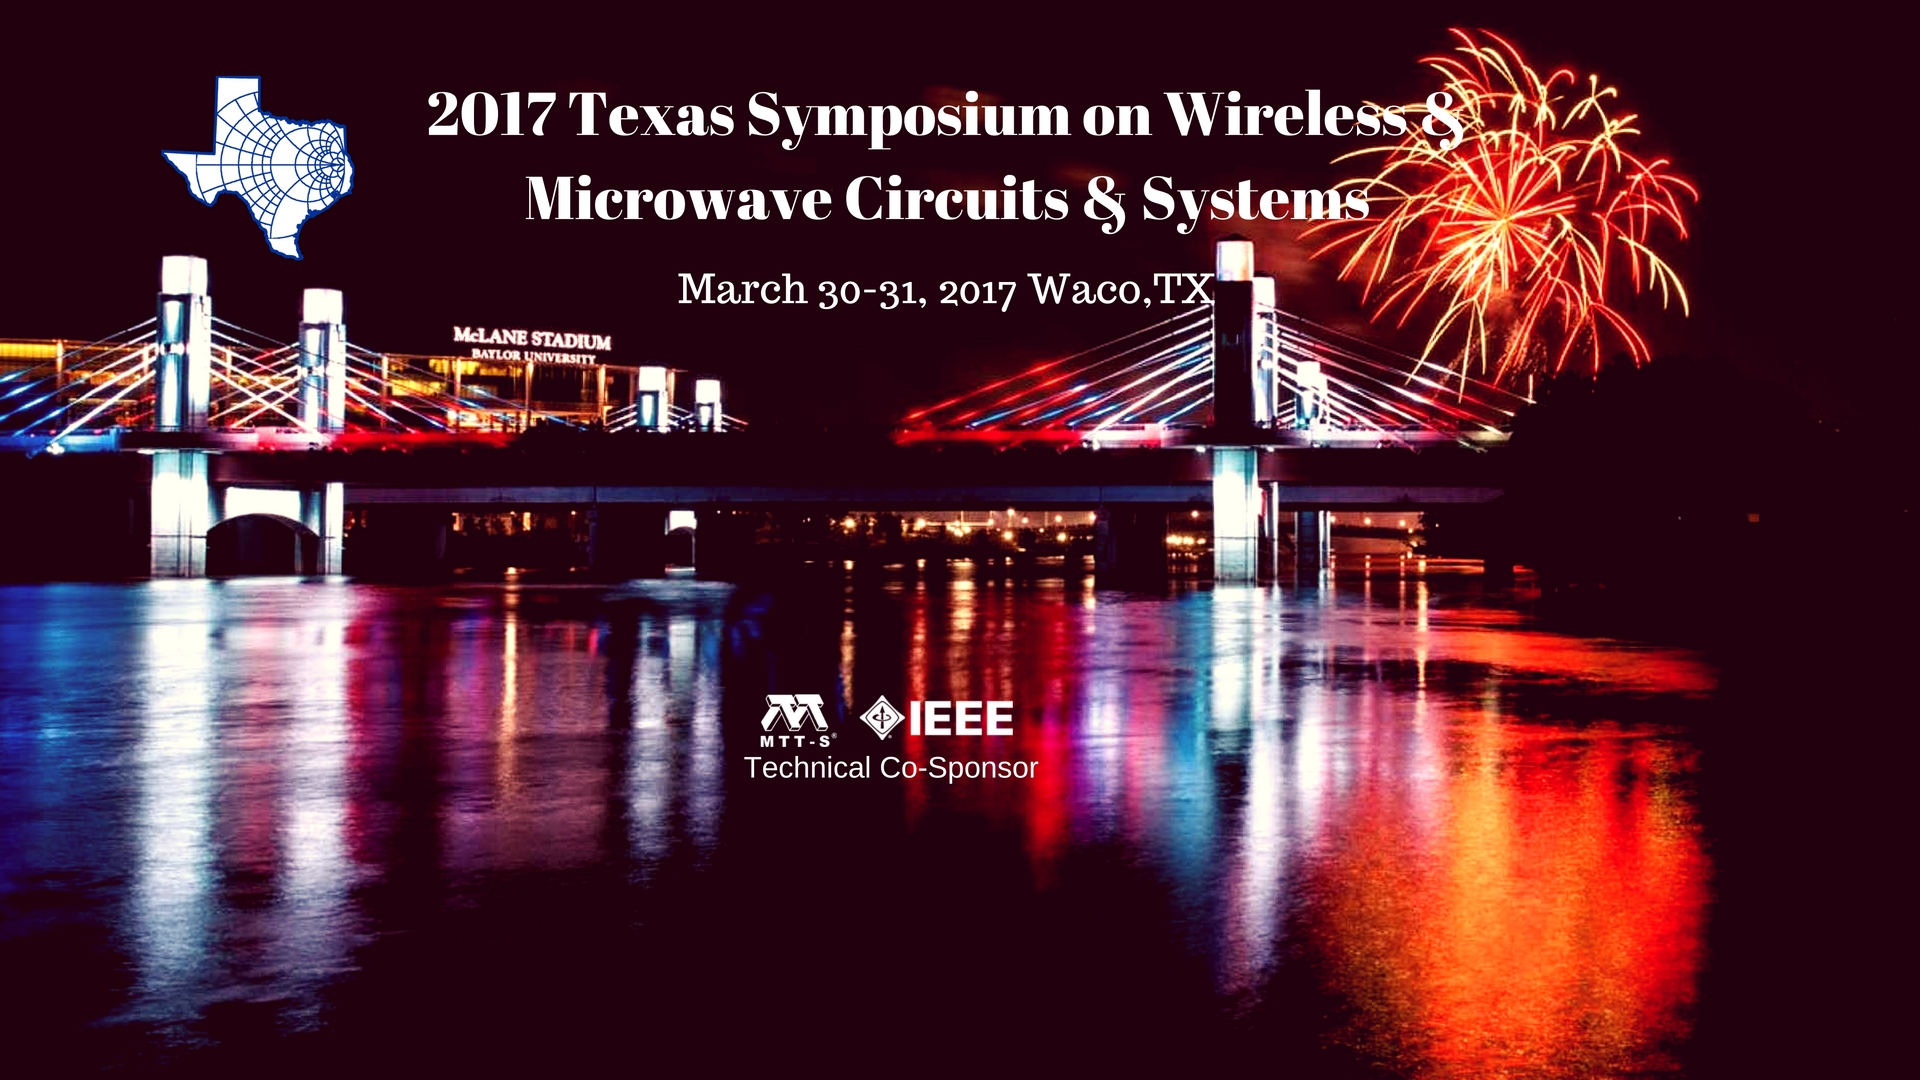
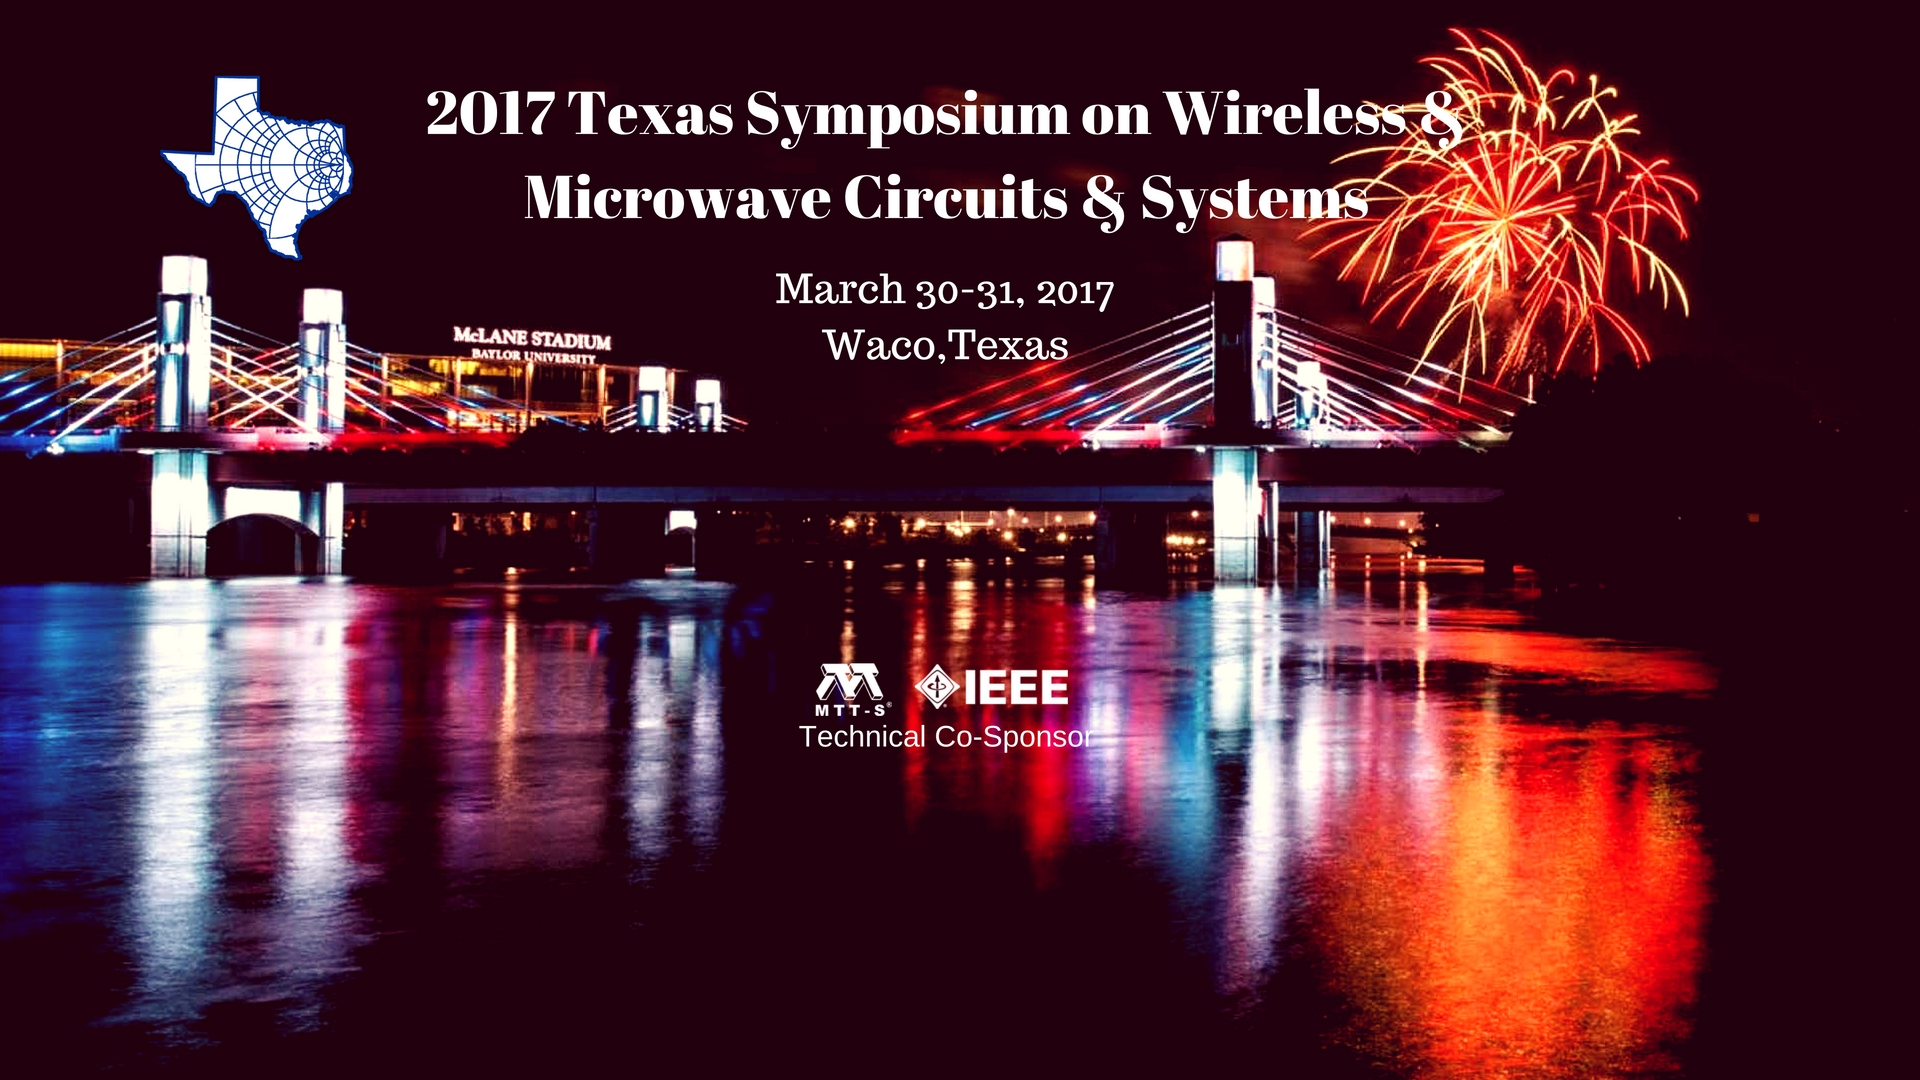
home page changes
More changes to home page and the banner, added new content to the page

diff --git a/index.html b/index.html
@@ -42,7 +42,7 @@
 								<li><a href="left-sidebar.html">Author Toolkit</a></li>
 								<li><a href="right-sidebar.html">Registration</a></li>
 								<li><a href="two-sidebar.html">Travel &amp; Stay</a></li>
-								<li><a href="no-sidebar.html">Sponsors</a></li>
+								<li><a href="Sponsors.html">Sponsors</a></li>
 								<li><a href="no-sidebar.html">Contact Us</a></li>
 							</ul>
 						</nav>
@@ -52,26 +52,31 @@
 			<!-- Banner -->
 				<section id=conf-section >
 					<div class="conf-content">
-						<p>The steering committee invites paper submissions for the 2017 conference, to be held on the beautiful campus of Baylor University in Waco, Texas. Papers will be archived and published in the conference proceedings and at IEEE Xplore.  Paper submissions in all areas of wireless and microwave circuits and systems are welcome. Topics of interest include, but are not limited to, the following:</p>
-
+						<p></p>
+						<p>The Texas Symposium on Wireless and Microwave Circuits and Systems conference committee invites paper submissions for the 2017 conference, to be held on the beautiful campus of Baylor University in Waco, Texas, on March 30-31, 2017. <br/>
+						Authors from the industry and academia are invited to submit four-page papers of their original and previously unpublished work.  Paper submissions in all areas of wireless and microwave circuits and systems are welcome.  Topics of interest include:</p>
 							<ul>
-								<li>• RF and microwave circuits, devices, modeling, testing, and measurement </li>
-								<li>• Radar and sensing </li>
-								<li>• Antennas, propagation, and electromagnetics </li>
-								<li>• Microwave applied metrology</li>
-								<li>• Wireless power transfer</li>
-								<li>• Electromagnetic materials and modeling</li>
-								<li>• Wireless or optical communication</li>
-								<li>• Wireless technologies for biomedical applications</li>
-								<li>• Internet of Things</li>
-								<li>• Emerging wireless technologies</li>
+								<li>• &nbsp;	RF and microwave circuits and systems  </li>
+								<li>• &nbsp;	Devices, modeling, testing and measurement techniques </li>
+								<li>• &nbsp;	5G and millimeter-wave wireless technologies</li>
+								<li>• &nbsp;	Spectrum management and coexistence </li>
+								<li>• &nbsp;	Radar and sensing</li>
+								<li>• &nbsp;	Antennas, propagation, and electromagnetics</li>
+								<li>• &nbsp;	Microwave applied metrology</li>
+								<li>• &nbsp;	Wireless power transfer</li>
+								<li>• &nbsp;	Electromagnetic materials and modeling</li>
+								<li>• &nbsp;	Wireless or optical communications </li>
+								<li>• &nbsp;	Photonics</li>
+								<li>• &nbsp;	Wireless technologies for biomedical applications</li>
+								<li>• &nbsp;	Internet of Things</li>
+								<li>• &nbsp;	Emerging wireless technologies</li>
 							</ul>
-
+							<p>Published papers will be archived will the IEEE Xplore®, and a student-best-paper-award will be awarded to offset registration and travel costs.</p>
 					</div>
 				</section>
 					<section  id="banner" >
 					<header>
-						<h2>Conference Program: <em>Agenda and Technical Program</em></h2>
+						<h2>Conference Program:&nbsp; <em>Agenda and Technical Program</em></h2>
 						<a href="http://texassymposium.org/files/TexasSymposiumAgenda_2016.pdf" class="button">Learn More</a>
 					</header>
 				</section>
@@ -82,25 +87,25 @@
 						<div class="row 200%">
 							<section class="4u 12u(narrower)">
 								<div class="box highlight">
-									<i class="icon major"></i>
+									<i class="icon major round-cal-img"></i>
 									<h3>Important Dates</h3>
-										<p><b>February 13, 2016</b>  <br/>Full Paper Submission Deadline</p>
-										<p><b>February 26, 2016</b> <br/>Author Notifications</p>
-										<p><b>March 6, 2016</b> <br/>Final Paper Submission</p>
+										<p><b>January 31, 2017</b>  <br/>Full Paper Submission Deadline</p>
+										<p><b>February 26, 2017</b> <br/>Author Notifications</p>
+										<p><b>March 10, 2017</b> <br/>Final Paper Submission</p>
 								</div>
 							</section>
 							<section class="4u 12u(narrower)">
 								<div class="box highlight">
-									<i class="icon major"></i>
+									<i class="icon major round-paper-call-img"></i>
 									<h3>CALL FOR SPONSORS</h3>
-									<p>Sponsorship of specific events within the conference (meals, reception, etc.) as well as the entire conference are available. Companies and individuals interested in participating as a sponsor should contact Benjamin Eynon, Sponsorship Chair, at b.eynon@samsung.com</p>
+									<p>Companies and individuals interested in sponsoring specific aspects of the conference should contact Charles Baylis at Charles_Baylis@baylor.edu</p>
 								</div>
 							</section>
 							<section class="4u 12u(narrower)">
 								<div class="box highlight">
-									<i class="icon major"></i>
+									<i class="icon major round-submit-img"></i>
 									<h3>Paper Submission</h3>
-									<p>Abstracts and papers should be submitted online at http://TexasSymposium.org</p>
+									<p>Conference website for more information and for submission of papers and abstracts and papers should be submitted online at http://TexasSymposium.org</p>
 									<p><a href="https://cmt3.research.microsoft.com/User/Login">Click Here</a> to submit paper </p>
 								</div>
 							</section>
@@ -110,12 +115,14 @@
 
 			<!-- Gigantic Heading -->
 				<section class="wrapper style2">
-					<div class="container">
+					<!-- <div class="callPaperTxt"> -->
+						<div class="container">
 						<header class="major">
-							<h2>Call for Papers
-								<h3>2017 Texas Symposium on Wireless &amp; Microwave Circuits &amp; Systems</h3>
-								<h3> March 30-31 Baylor University, Waco, Texas</h3>
-							</h2>
+						<!-- <header id="callPaperBlueBontBanner"> -->
+							<h2>Call for Papers</h2>
+								<h3>2017 Texas Symposium on Wireless &amp; Microwave Circuits &amp; Systems <br/>
+								 March 30 - 31<br/>
+								 Baylor University, Waco, Texas</h3>
 
 							<p><a href="http://www.profdong.com/WMCS/">2017 Conference Registration </a></p>
 						</header>
@@ -231,8 +238,7 @@
 						<ul class="icons">
 							<li><a href="#" class="icon fa-twitter"><span class="label">Twitter</span></a></li>
 							<li><a href="#" class="icon fa-facebook"><span class="label">Facebook</span></a></li>
-							<li><a href="#" class="icon fa-github"><span class="label">GitHub</span></a></li>
-							<li><a href="#" class="icon fa-linkedin"><span class="label">LinkedIn</span></a></li>
+						  <li><a href="#" class="icon fa-linkedin"><span class="label">LinkedIn</span></a></li>
 							<li><a href="#" class="icon fa-google-plus"><span class="label">Google+</span></a></li>
 						</ul>
 

diff --git a/Program.html b/Program.html
@@ -40,7 +40,7 @@
 								<li><a href="left-sidebar.html">Author Toolkit</a></li>
 								<li><a href="right-sidebar.html">Registration</a></li>
 								<li><a href="two-sidebar.html">Travel &amp; Stay</a></li>
-                <li><a href="no-sidebar.html">Sponsors</a></li>
+                <li><a href="Sponsors.html">Sponsors</a></li>
 								<li><a href="no-sidebar.html">Contact Us</a></li>
 							</ul>
 						</nav>

diff --git a/left-sidebar.html b/left-sidebar.html
@@ -40,7 +40,7 @@
 								<li class="current"><a href="left-sidebar.html">Author Toolkit</a></li>
 								<li><a href="right-sidebar.html">Registration</a></li>
 								<li><a href="two-sidebar.html">Travel &amp; Stay</a></li>
-								<li><a href="no-sidebar.html">Sponsors</a></li>
+								<li><a href="Sponsors.html">Sponsors</a></li>
 								<li><a href="no-sidebar.html">Contact Us</a></li>
 							</ul>
 						</nav>

diff --git a/no-sidebar.html b/no-sidebar.html
@@ -40,7 +40,7 @@
 								<li><a href="left-sidebar.html">Author Toolkit</a></li>
 								<li><a href="right-sidebar.html">Registration</a></li>
 								<li><a href="two-sidebar.html">Travel &amp; Stay</a></li>
-								<li><a href="no-sidebar.html">Sponsors</a></li>
+								<li><a href="Sponsors.html">Sponsors</a></li>
 								<li class="current"><a href="no-sidebar.html">Contact Us</a></li>
 							</ul>
 						</nav>

diff --git a/right-sidebar.html b/right-sidebar.html
@@ -40,7 +40,7 @@
 								<li><a href="left-sidebar.html">Author Toolkit</a></li>
 								<li class="current"><a href="right-sidebar.html">Registration</a></li>
 								<li><a href="two-sidebar.html">Travel &amp; Stay</a></li>
-								<li><a href="no-sidebar.html">Sponsors</a></li>
+								<li><a href="Sponsors.html">Sponsors</a></li>
 								<li><a href="no-sidebar.html">Contact Us</a></li>
 							</ul>
 						</nav>

diff --git a/two-sidebar.html b/two-sidebar.html
@@ -40,7 +40,7 @@
 								<li><a href="left-sidebar.html">Author Toolkit</a></li>
 								<li><a href="right-sidebar.html">Registration</a></li>
 								<li class="current"><a href="two-sidebar.html">Travel &amp; Stay</a></li>
-								<li><a href="no-sidebar.html">Sponsors</a></li>
+								<li><a href="Sponsors.html">Sponsors</a></li>
 								<li><a href="no-sidebar.html">Contact Us</a></li>
 							</ul>
 						</nav>
